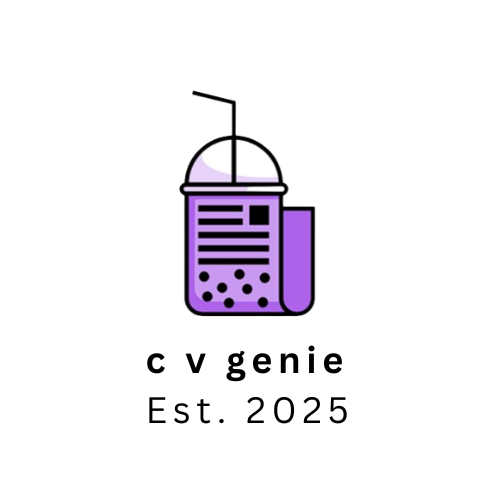
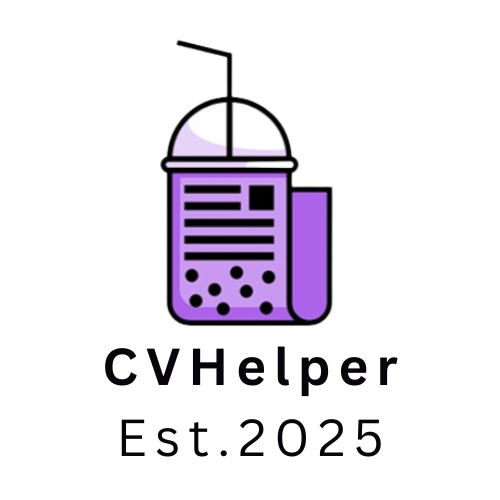
feat: rename application from CVGenie to CVHelper; update related references and metadata

Changed region(s): [[0.3, 0.06, 0.69, 0.66], [0.21, 0.69, 0.81, 0.93], [0.57, 0.9, 0.6, 0.93]]

diff --git a/src/app/tos/page.tsx b/src/app/tos/page.tsx
@@ -12,15 +12,15 @@ export default function Page() {
         Effective Date: Feb 01, 2025
       </p>
       <p>
-        Welcome to CVGenie. These Terms of Service (&quot;Terms&quot;)
+        Welcome to CVHelper. These Terms of Service (&quot;Terms&quot;)
         govern your use of our website and services, including any paid
-        subscription plans. By accessing or using CVGenie (&quot;the
+        subscription plans. By accessing or using CVHelper (&quot;the
         Service&quot;), you agree to be bound by these Terms. If you do not
         agree to these Terms, do not use the Service.
       </p>
       <h2 className="text-xl font-semibold">1. Overview</h2>
       <p>
-        CVGenie is a SaaS platform that provides resume-building tools
+        CVHelper is a SaaS platform that provides resume-building tools
         powered by artificial intelligence. We offer both a free tier and paid
         subscription plans (&quot;Paid Plans&quot;). Payments for Paid Plans are
         processed through Stripe, our third-party payment provider.
@@ -67,7 +67,7 @@ export default function Page() {
           the renewal date.
         </li>
         <li>
-          <strong>Refund Policy:</strong> CVGenie does not offer
+          <strong>Refund Policy:</strong> CVHelper does not offer
           refunds for any payments already processed. However, you can cancel
           your subscription at any time, and you will continue to have access to
           the Paid Plan features until the end of your current billing period.
@@ -92,7 +92,7 @@ export default function Page() {
       </p>
       <h2 className="text-xl font-semibold">8. License to Use the Service</h2>
       <p>
-        CVGenie grants you a limited, non-exclusive, non-transferable,
+        CVHelper grants you a limited, non-exclusive, non-transferable,
         and revocable license to use the Service for personal or professional
         use in accordance with these Terms. You may not:
       </p>
@@ -107,12 +107,12 @@ export default function Page() {
       <h2 className="text-xl font-semibold">9. Intellectual Property</h2>
       <p>
         All content, trademarks, logos, and intellectual property related to AI
-        Resume Builder are owned by CVGenie or its licensors. You
+        Resume Builder are owned by CVHelper or its licensors. You
         agree not to infringe on these rights.
       </p>
       <h2 className="text-xl font-semibold">10. User Content</h2>
       <p>
-        By using the Service, you grant CVGenie a non-exclusive,
+        By using the Service, you grant CVHelper a non-exclusive,
         worldwide, royalty-free license to use, modify, and display any content
         you create using the platform (such as resumes) solely for the purpose
         of providing the Service. You retain all ownership of your content.
@@ -126,21 +126,21 @@ export default function Page() {
       <h2 className="text-xl font-semibold">12. Third-Party Services</h2>
       <p>
         The Service may contain links or integrations to third-party websites or
-        services (e.g., Stripe for payments). CVGenie is not
+        services (e.g., Stripe for payments). CVHelper is not
         responsible for the content or practices of any third-party websites or
         services.
       </p>
       <h2 className="text-xl font-semibold">13. Disclaimer of Warranties</h2>
       <p>
         The Service is provided on an &quot;as is&quot; and &quot;as
-        available&quot; basis. CVGenie makes no warranties, express or
+        available&quot; basis. CVHelper makes no warranties, express or
         implied, regarding the Service, including but not limited to the
         accuracy of resume outputs, the suitability of resumes for job
         applications, or the uninterrupted availability of the Service.
       </p>
       <h2 className="text-xl font-semibold">14. Limitation of Liability</h2>
       <p>
-        To the fullest extent permitted by law, CVGenie shall not be
+        To the fullest extent permitted by law, CVHelper shall not be
         liable for any indirect, incidental, consequential, or punitive damages,
         including loss of profits, data, or business opportunities, arising out
         of or related to your use of the Service.
@@ -165,7 +165,7 @@ export default function Page() {
         [Insert Contact Information].
       </p>
       <p>
-        By using CVGenie, you acknowledge that you have read,
+        By using CVHelper, you acknowledge that you have read,
         understood, and agree to these Terms of Service.
       </p>
     </main>

diff --git a/src/app/layout.tsx b/src/app/layout.tsx
@@ -9,11 +9,11 @@ const inter = Inter({ subsets: ["latin"] });
 
 export const metadata: Metadata = {
   title: {
-    template: "%s - CV Genie",
-    absolute: "CV Genie",
+    template: "%s - CV Helper",
+    absolute: "CV Helper",
   },
   description:
-    "CV Genie, an AI-powered resume builder, simplifies the process of crafting a professional resume designed to help you secure your dream job.",
+    "CV Helper, an AI-powered resume builder, simplifies the process of crafting a professional resume designed to help you secure your dream job.",
   icons: 
     {
     icon: "/favicon.ico",

diff --git a/src/app/(main)/Navbar.tsx b/src/app/(main)/Navbar.tsx
@@ -29,13 +29,13 @@ export default function Navbar() {
         <Link href="/" className="flex items-center gap-3">
           <Image
             src={logo}
-            alt="CV Genie Logo"
+            alt="CVHelper Logo"
             width={40}
             height={40}
             className="rounded-full"
           />
           <span className="text-xl font-bold tracking-tight dark:text-white">
-            CV Genie
+            CV Helper
           </span>
         </Link>
 

diff --git a/src/app/page.tsx b/src/app/page.tsx
@@ -32,7 +32,7 @@ export default function Home() {
           in Minutes
         </h1>
         <p className="text-lg text-gray-500">
-          Our <span className="font-bold">CVGenie</span> helps you design a
+          Our <span className="font-bold">CVHelper</span> helps you design a
           professional resume, even if you&apos;re not very pro.
         </p>
         <Button asChild size="lg" variant="premium">

diff --git a/src/components/premium/action.ts b/src/components/premium/action.ts
@@ -34,7 +34,7 @@ export async function createCheckoutSession(priceId: string) {
     },
     custom_text: {
       terms_of_service_acceptance: {
-        message: `I have read CVGenie's [terms of service](${env.NEXT_PUBLIC_BASE_URL}/tos) and agree to them.`,
+        message: `I have read CVHelper's [terms of service](${env.NEXT_PUBLIC_BASE_URL}/tos) and agree to them.`,
       },
     },
     consent_collection: {

diff --git a/src/app/(main)/resumes/Footer.tsx b/src/app/(main)/resumes/Footer.tsx
@@ -10,7 +10,7 @@ const Footer = () => {
         <div className="flex items-center text-sm gap-2 text-gray-700 dark:text-gray-400">
           <CopyrightIcon />
           <span className="">
-            {new Date().getFullYear()} CVGenie. All Rights Reserved.
+            {new Date().getFullYear()} CVHelper. All Rights Reserved.
           </span>
         </div>
 

diff --git a/src/app/(main)/chat/page.tsx b/src/app/(main)/chat/page.tsx
@@ -11,6 +11,7 @@ import AddNewPDF from "./_components/AddNewPDF";
 import ChatList from "./_components/ChatList";
 import { getUserDetails } from "./action";
 
+
 export default function Page() {
   const subscriptionLevel = useSubscriptionLevel();
   const premiumModal = usePremiumModal();

diff --git a/src/app/(main)/chat/layout.tsx b/src/app/(main)/chat/layout.tsx
@@ -1,0 +1,14 @@
+// src/app/(main)/chat/layout.tsx
+import { Metadata } from "next";
+
+export const metadata: Metadata = {
+  title: "Your chats",
+};
+
+export default function ChatLayout({
+  children,
+}: {
+  children: React.ReactNode;
+}) {
+  return <>{children}</>;
+}

diff --git a/src/app/(main)/interview/page.tsx b/src/app/(main)/interview/page.tsx
@@ -11,6 +11,7 @@ import AddNewInterview from "./_components/AddNewInterview";
 import InterviewList from "./_components/InterviewList";
 import { fetchUserInterviews, getUserDetails } from "./action";
 
+
 export default function Page() {
   const { userId } = useAuth();
 

diff --git a/src/app/(main)/interview/layout.tsx b/src/app/(main)/interview/layout.tsx
@@ -1,0 +1,13 @@
+import { Metadata } from "next";
+
+export const metadata: Metadata = {
+  title: "Your Interviews",
+};
+
+export default function InterviewsLayout({
+  children,
+}: {
+  children: React.ReactNode;
+}) {
+  return <>{children}</>;
+}

diff --git a/src/app/(main)/interview/[interviewId]/layout.tsx b/src/app/(main)/interview/[interviewId]/layout.tsx
@@ -1,0 +1,13 @@
+import { Metadata } from "next";
+
+export const metadata: Metadata = {
+  title: "Interview",
+};
+
+export default function InterviewLayout({
+  children,
+}: {
+  children: React.ReactNode;
+}) {
+  return <>{children}</>;
+}

diff --git a/src/app/(main)/chat/[chatId]/layout.tsx b/src/app/(main)/chat/[chatId]/layout.tsx
@@ -1,0 +1,13 @@
+import { Metadata } from "next";
+
+export const metadata: Metadata = {
+  title: "Chat",
+};
+
+export default function ChatLayout({
+  children,
+}: {
+  children: React.ReactNode;
+}) {
+  return <>{children}</>;
+}
